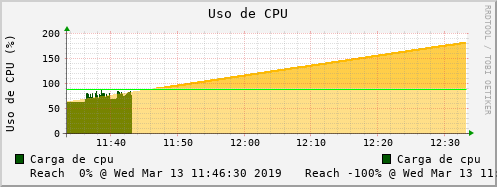
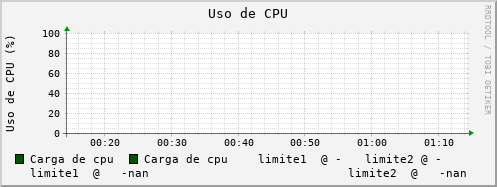
examen2.0 mini XD

diff --git a/ASR_P2/graphRRD.py b/ASR_P2/graphRRD.py
@@ -16,10 +16,11 @@ def graficarRRD(nombre):
 def graficarMinimosCuadrados (nombre):
         ultima_lectura = int(rrdtool.last("rrd/"+nombre+".rrd"))
         tiempo_final = ultima_lectura
-        tiempo_inicial = tiempo_final-600
+        #tiempo_inicial = tiempo_final-600
+        tiempo_inicial = 1539659123
         ret = rrdtool.graphv( "png/"+nombre+"MinCua.png",
                 "--start",str(tiempo_inicial),
-                "--end",str(tiempo_final+3000),
+                "--end",str(tiempo_final+17000),
                 "--title=Uso de CPU",
                 "--color", 
                 "ARROW#009900",
@@ -28,30 +29,35 @@ def graficarMinimosCuadrados (nombre):
                 '--lower-limit', '0',
                 '--upper-limit', '100',
 
-                "DEF:outTrafic=rrd/"+nombre+".rrd:outoctets:AVERAGE",
+                "DEF:outTrafic=rrd/"+nombre+".rrd:cpuload:AVERAGE",
 
                 "VDEF:m=outTrafic,LSLSLOPE",
                 "VDEF:b=outTrafic,LSLINT",
+                "VDEF:CPUmax=outTrafic,MAXIMUM",
                 "CDEF:tendencia=outTrafic,POP,m,COUNT,*,b,+",
                 "CDEF:limites=tendencia,90,100,LIMIT",
                 "VDEF:limite1=limites,FIRST",
                 "VDEF:limite2=limites,LAST",
 
-                "VDEF:CPUmax=outTrafic,MAXIMUM",
+                
 
                 "VDEF:CPUlast=outTrafic,LAST",
                 "PRINT:CPUlast:%6.2lf %S",
 
+                #"AREA:outTrafic#005500:Carga de cpu",
+                "HRULE:90#00FF00",
+                "AREA:tendencia#FFBB0077:limite1",
+                #"AREA:limite1#00000077:limite1",
+                #"AREA:tendencia#FFBB0077",
+                #"LINE2:tendencia#FFBB00",
+                "LINE1:tendencia#FFBB00:dashes=3:Linea base",
+                #"AREA:limite1#FFFFFF",
                 "AREA:outTrafic#005500:Carga de cpu",
-                "HRULE:CPUmax#00FF00",
-                "AREA:tendencia#FFBB0077",
-                "LINE2:tendencia#FFBB00",
-                "LINE1:tendencia#FFBB00:dashes=10",
-                "AREA:limite1#FFFFFF",
-                "AREA:outTrafic#005500:Carga de cpu",
-                "AREA:tendencia#FFBB0077",
-                "GPRINT:limite1:  Reach  0% @ %c :strftime",
-                "GPRINT:limite2:  \nReach -100% @ %c \\n:strftime"
+                
+                "GPRINT:limite1:  limite1 %c :strftime",
+                "GPRINT:limite1:  limite1 %6.2lf %S",
+                "GPRINT:limite2:  \nlimite2 %c \\n:strftime",
+                "GPRINT:limite2:  limite2 %6.2lf %S"
                 
                 )
         #print(ret['print[0]'])

diff --git a/ASR_P2/menuP1.py b/ASR_P2/menuP1.py
@@ -43,9 +43,12 @@ while repetir:
         #print('Ingresa un host: ')
         #host=input()
 
-        archivo="examen2"
-        comunidad="variation/linux-full-walk"
-        host="10.100.71.200"
+        archivo="source3"
+        comunidad="grupo_4cm1"
+        host="localhost"
+        #archivo="examen2"
+        #comunidad="variation/linux-full-walk"
+        #host="10.100.71.200"
 
         con=0
         flag=0
@@ -54,13 +57,13 @@ while repetir:
         
     elif (opcion==5):
         print('\nIngresa el nombre del archivo rrd: ')
-        archivo=input()
+        #archivo=input()
         #print('Ingresa una comunidad: ')
         #comunidad=input()
         #print('Ingresa un host: ')
         #host=input()
 
-        archivo="examen2"
+        archivo="examen2test"
         comunidad="grupo_4cm1"
         host="localhost"
         createRRDTOOL(archivo+".rrd",'N','10')

diff --git a/ASR_P2/mail.py b/ASR_P2/mail.py
@@ -10,7 +10,7 @@ def SendMail(ImgFileName):
     msg = MIMEMultipart()
     msg['Subject'] = 'Evidencia 3'
     msg['From'] = 'cefriasm@gmail.com'
-    msg['To'] = 'tanibet.escom@gmail.com'
+    msg['To'] = 'crisvaldru07@outlook.com'
     text = MIMEText("Grupo 4CM1 - Equipo 4")
     msg.attach(text)
     image = MIMEImage(img_data, name=os.path.basename(ImgFileName))
